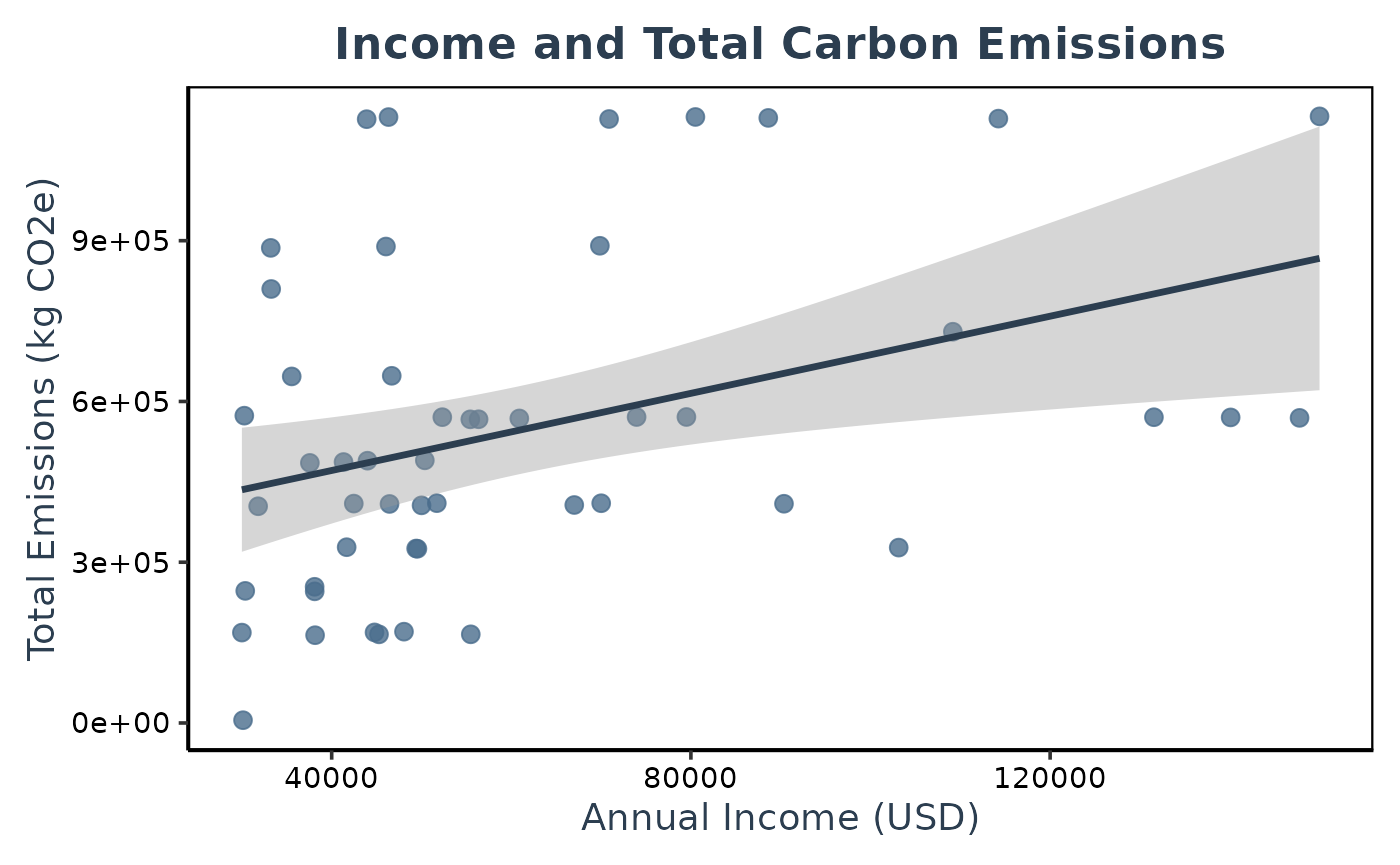
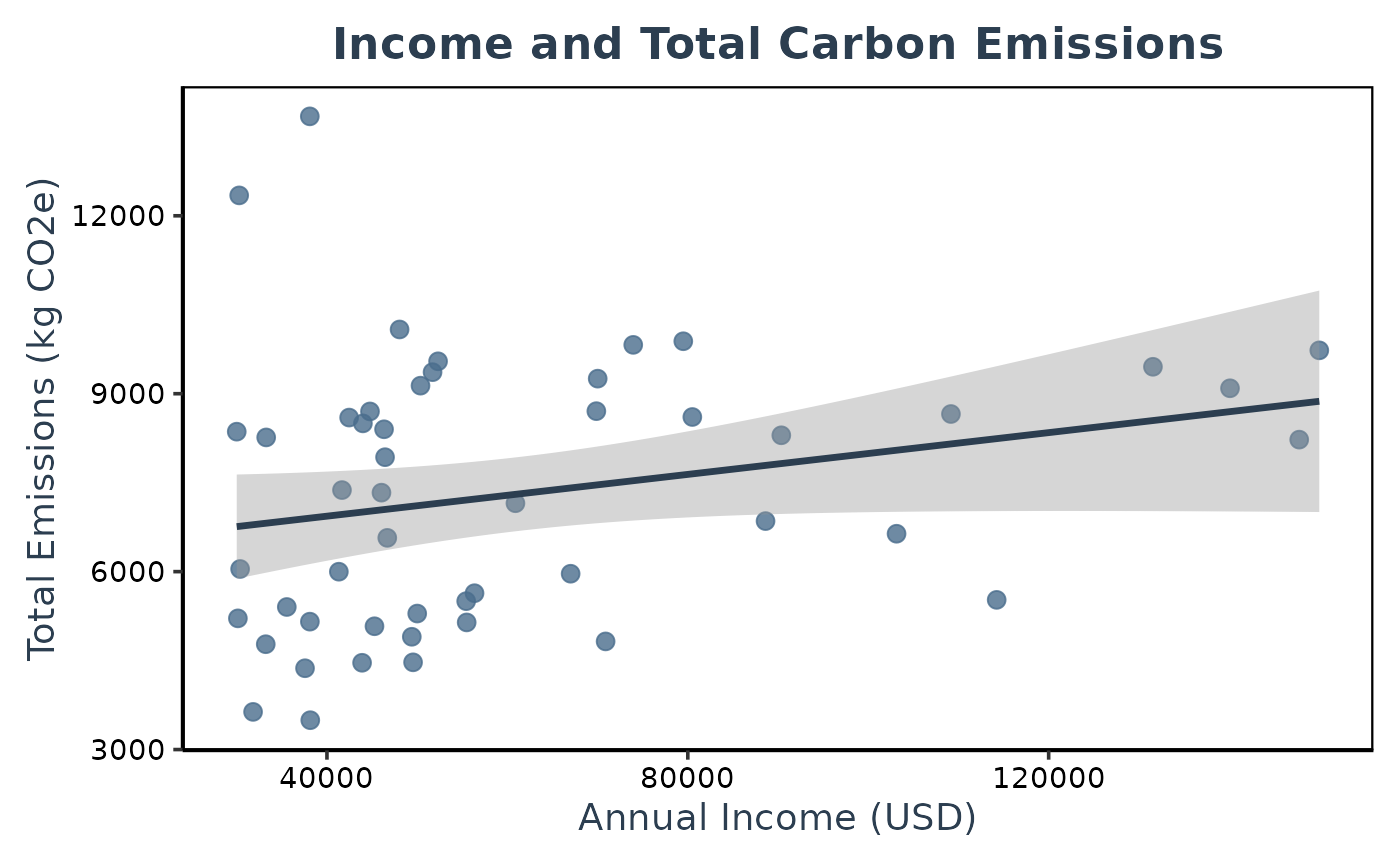
Deploying to gh-pages from @ jianing-d/SECFC@403e094874eb582eefa5813d420a4837d25bb693 🚀

diff --git a/articles/Analysis_Example.html b/articles/Analysis_Example.html
@@ -93,10 +93,7 @@ carbon emissions.</li>
 <div class="sourceCode" id="cb1"><pre class="downlit sourceCode r">
 <code class="sourceCode R"><span><span class="co"># Install the SECFC package from GitHub</span></span>
 <span><span class="fu">remotes</span><span class="fu">::</span><span class="fu"><a href="https://remotes.r-lib.org/reference/install_github.html" class="external-link">install_github</a></span><span class="op">(</span><span class="st">"jianing-d/SECFC"</span><span class="op">)</span></span>
-<span><span class="co">#&gt; cpp11       (NA -&gt; 0.5.2) [CRAN]</span></span>
-<span><span class="co">#&gt; prettyunits (NA -&gt; 1.2.0) [CRAN]</span></span>
-<span><span class="co">#&gt; progress    (NA -&gt; 1.2.3) [CRAN]</span></span>
-<span><span class="co">#&gt; * checking for file ‘/tmp/Rtmpy4omqa/remotes1faa52b5d886/jianing-d-SECFC-3437c5c/DESCRIPTION’ ... OK</span></span>
+<span><span class="co">#&gt; * checking for file ‘/tmp/RtmpY7fEMQ/remotes1e825c5d641d/jianing-d-SECFC-403e094/DESCRIPTION’ ... OK</span></span>
 <span><span class="co">#&gt; * preparing ‘SECFC’:</span></span>
 <span><span class="co">#&gt; * checking DESCRIPTION meta-information ... OK</span></span>
 <span><span class="co">#&gt; * checking for LF line-endings in source and make files and shell scripts</span></span>
@@ -228,18 +225,18 @@ carbon emissions. This is a basic linear model using the built-in
 <span><span class="co">#&gt; </span></span>
 <span><span class="co">#&gt; Residuals:</span></span>
 <span><span class="co">#&gt;     Min      1Q  Median      3Q     Max </span></span>
-<span><span class="co">#&gt; -430459 -216609  -39798  148779  641524 </span></span>
+<span><span class="co">#&gt; -3407.5 -1735.1    70.2  1482.3  6774.7 </span></span>
 <span><span class="co">#&gt; </span></span>
 <span><span class="co">#&gt; Coefficients:</span></span>
 <span><span class="co">#&gt;              Estimate Std. Error t value Pr(&gt;|t|)    </span></span>
-<span><span class="co">#&gt; (Intercept) 3.273e+05  8.945e+04   3.659 0.000629 ***</span></span>
-<span><span class="co">#&gt; income      3.598e+00  1.300e+00   2.769 0.007977 ** </span></span>
+<span><span class="co">#&gt; (Intercept) 6.231e+03  6.787e+02   9.181 3.85e-12 ***</span></span>
+<span><span class="co">#&gt; income      1.761e-02  9.861e-03   1.786   0.0805 .  </span></span>
 <span><span class="co">#&gt; ---</span></span>
 <span><span class="co">#&gt; Signif. codes:  0 '***' 0.001 '**' 0.01 '*' 0.05 '.' 0.1 ' ' 1</span></span>
 <span><span class="co">#&gt; </span></span>
-<span><span class="co">#&gt; Residual standard error: 288700 on 48 degrees of freedom</span></span>
-<span><span class="co">#&gt; Multiple R-squared:  0.1377, Adjusted R-squared:  0.1197 </span></span>
-<span><span class="co">#&gt; F-statistic: 7.665 on 1 and 48 DF,  p-value: 0.007977</span></span></code></pre></div>
+<span><span class="co">#&gt; Residual standard error: 2191 on 48 degrees of freedom</span></span>
+<span><span class="co">#&gt; Multiple R-squared:  0.06229,    Adjusted R-squared:  0.04275 </span></span>
+<span><span class="co">#&gt; F-statistic: 3.188 on 1 and 48 DF,  p-value: 0.08048</span></span></code></pre></div>
 </div>
 <div class="section level2">
 <h2 id="step-6-create-a-plot">Step 6: Create a Plot<a class="anchor" aria-label="anchor" href="#step-6-create-a-plot"></a>
